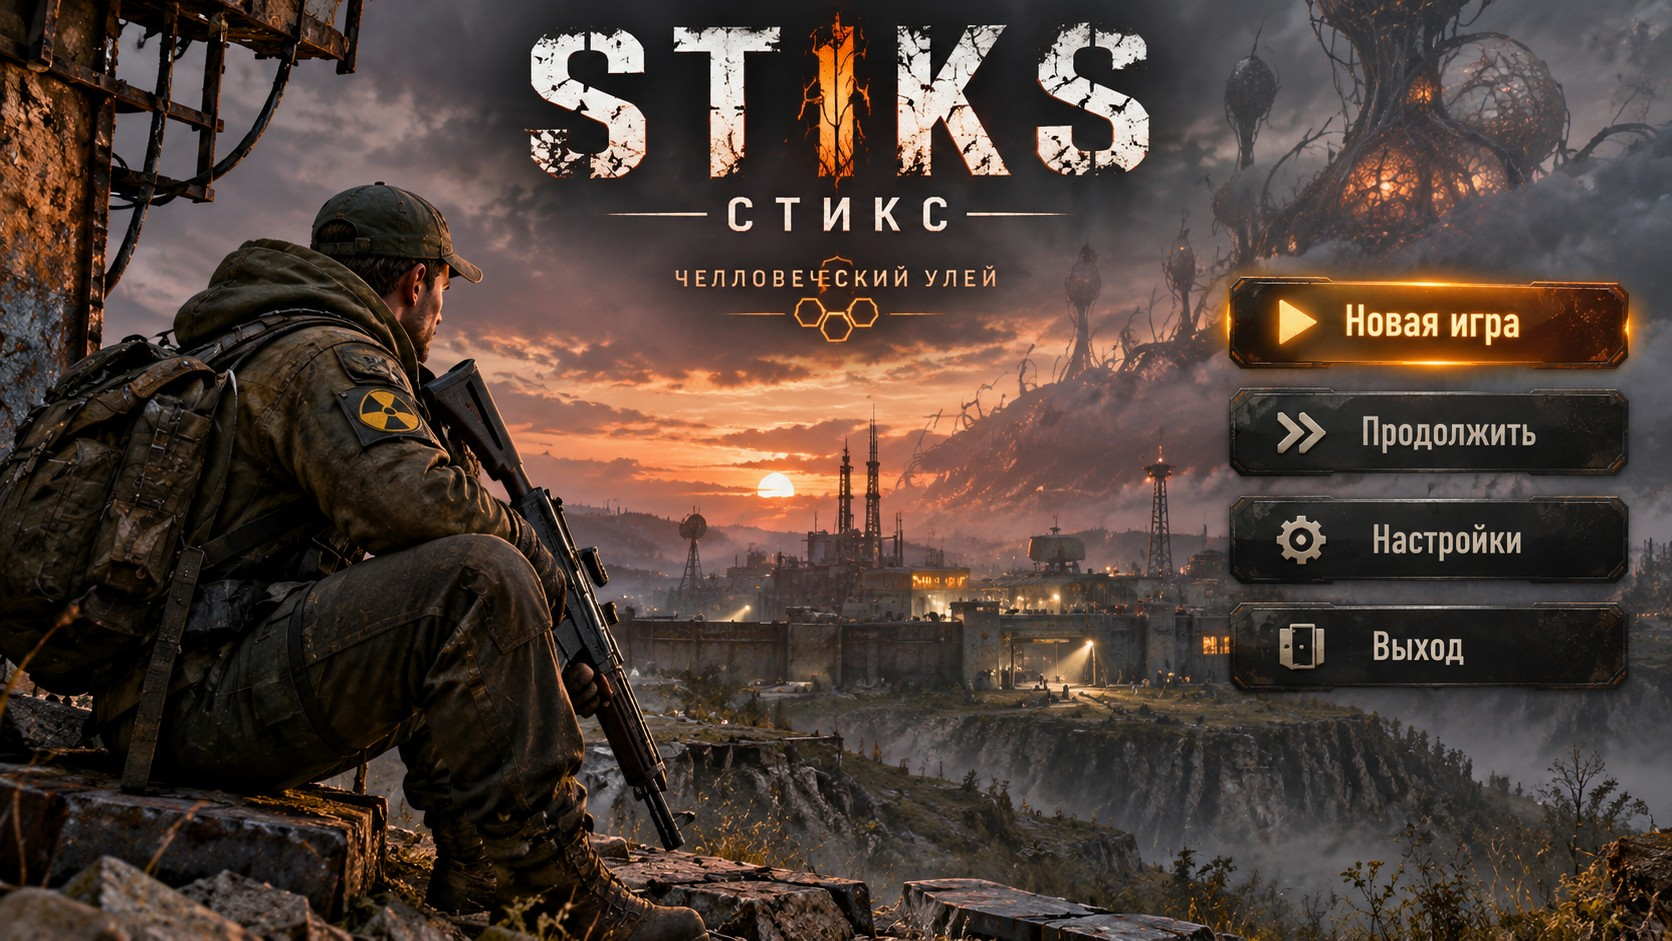
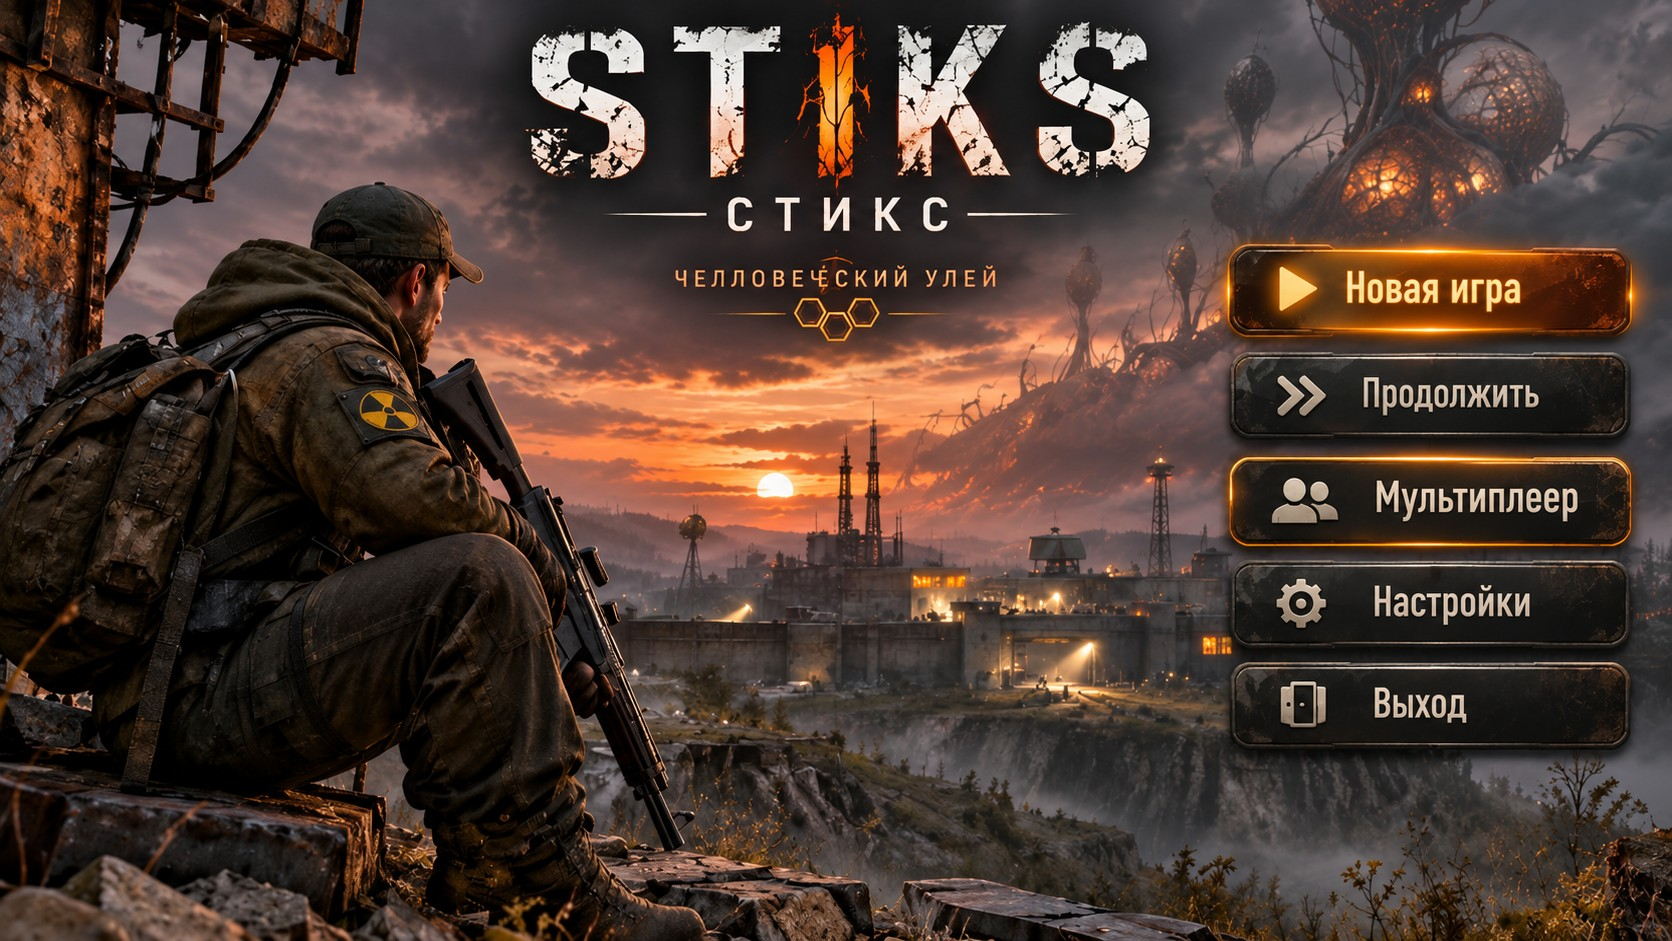
Главное меню по картинке пользователя: «Мультиплеер» на картинке, проверочные режимы — в «Настройки → Лаборатория»
- Фон меню — новая картинка (Новая игра, Продолжить, Мультиплеер, Настройки, Выход),
  области нажатия по её кнопкам; ряд кнопок под меню и отдельная кнопка «МУЛЬТИПЛЕЕР» убраны
- «Лаборатория» (из настроек главного меню): полигон 10×10, стенд 3D, тест уровней, тест кейсов
- Проверка меню: пять кнопок по местам, все целиком на экране (1280×720 и 2400×1080),
  лаборатория со всеми режимами, «Мультиплеер» открывает экран сети

Claude-Session: https://claude.ai/code/session_012mFYCmtNnDBPzGE6DVCLqL

diff --git a/stand/docs/WORLD.md b/stand/docs/WORLD.md
@@ -16,7 +16,11 @@
   (`FOG_SHADER`, три слоя на разной высоте; внутри поля тумана нет).
 - С локации на карту: выйти за край поля 100×100 м — идёт отсчёт 5 секунд («Вы покидаете локацию»); вернулся —
   отсчёт сброшен, не вернулся — переход на карту мира. Или шестерёнка → «Карта».
-- **«Тест уровней»** — третья кнопка внизу главного меню (рядом с «Полигоном» и «3D»): окно выбора локации (дом,
+- Главное меню — картинка пользователя (`assets/ui/title.jpg`) с кнопками «Новая игра», «Продолжить»,
+  «Мультиплеер», «Настройки», «Выход» (области нажатия — `bd.areas` в `menu.gd`, в точках картинки 1672×941).
+  Проверочные режимы убраны с главного экрана: **«Настройки» → «Лаборатория»** — «Полигон 10×10», «Стенд 3D:
+  движения, редактор удара», «Тест уровней», «Тест кейсов».
+- **«Тест уровней»** (Настройки → Лаборатория): окно выбора локации (дом,
   коровник, санаторий, конвой, хутор, полигон); герой появляется там сразу с пулемётом ПКП и запасом лент, бессмертный,
   патроны не кончаются, с большим рюкзаком, пистолетом ТТ и аптечками. Ничего не сохраняется (`ULSettings.level_test`, база — только в
   памяти): маршруты, споры и вещи на базе не меняются, таймер кластера не убивает, выход — за край поля или шестерёнка → «Главное меню» (возврат в меню).
@@ -196,7 +200,7 @@
 
 ## Полигон и стенд 3D
 ![главное меню: «Полигон» и «3D» под нарисованными кнопками](menu.jpg)
-- В главном меню под «Выходом» — две кнопки: **«Полигон»** и **«3D»**.
+- **«Полигон»** и **«Стенд 3D»** — в главном меню: «Настройки» → «Лаборатория».
 - **Полигон** — пустая площадка 10×10 м с разметкой через метр и бортом по краю (за борт не выйти ни герою, ни
   врагу). Это та же сцена `world.tscn` в режиме `ULSettings.arena`: тот же герой, управление и бой, что на
   локации. Герой сразу с АК-74М, ТТ и малым рюкзаком; в двух ящиках у борта — остальное оружие и патроны ко
